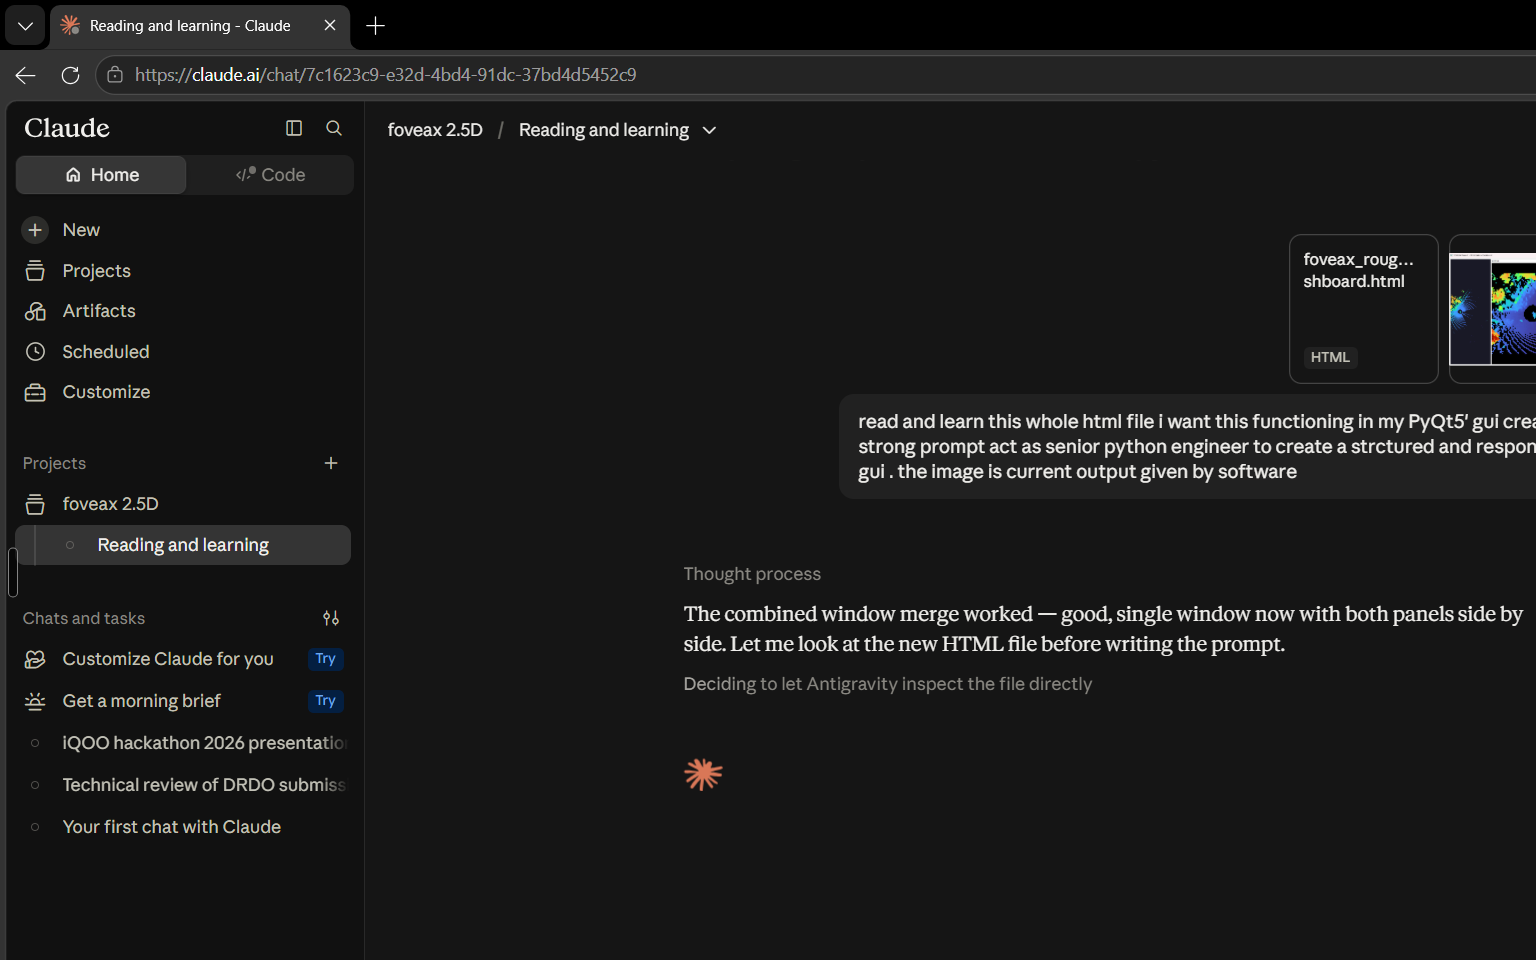
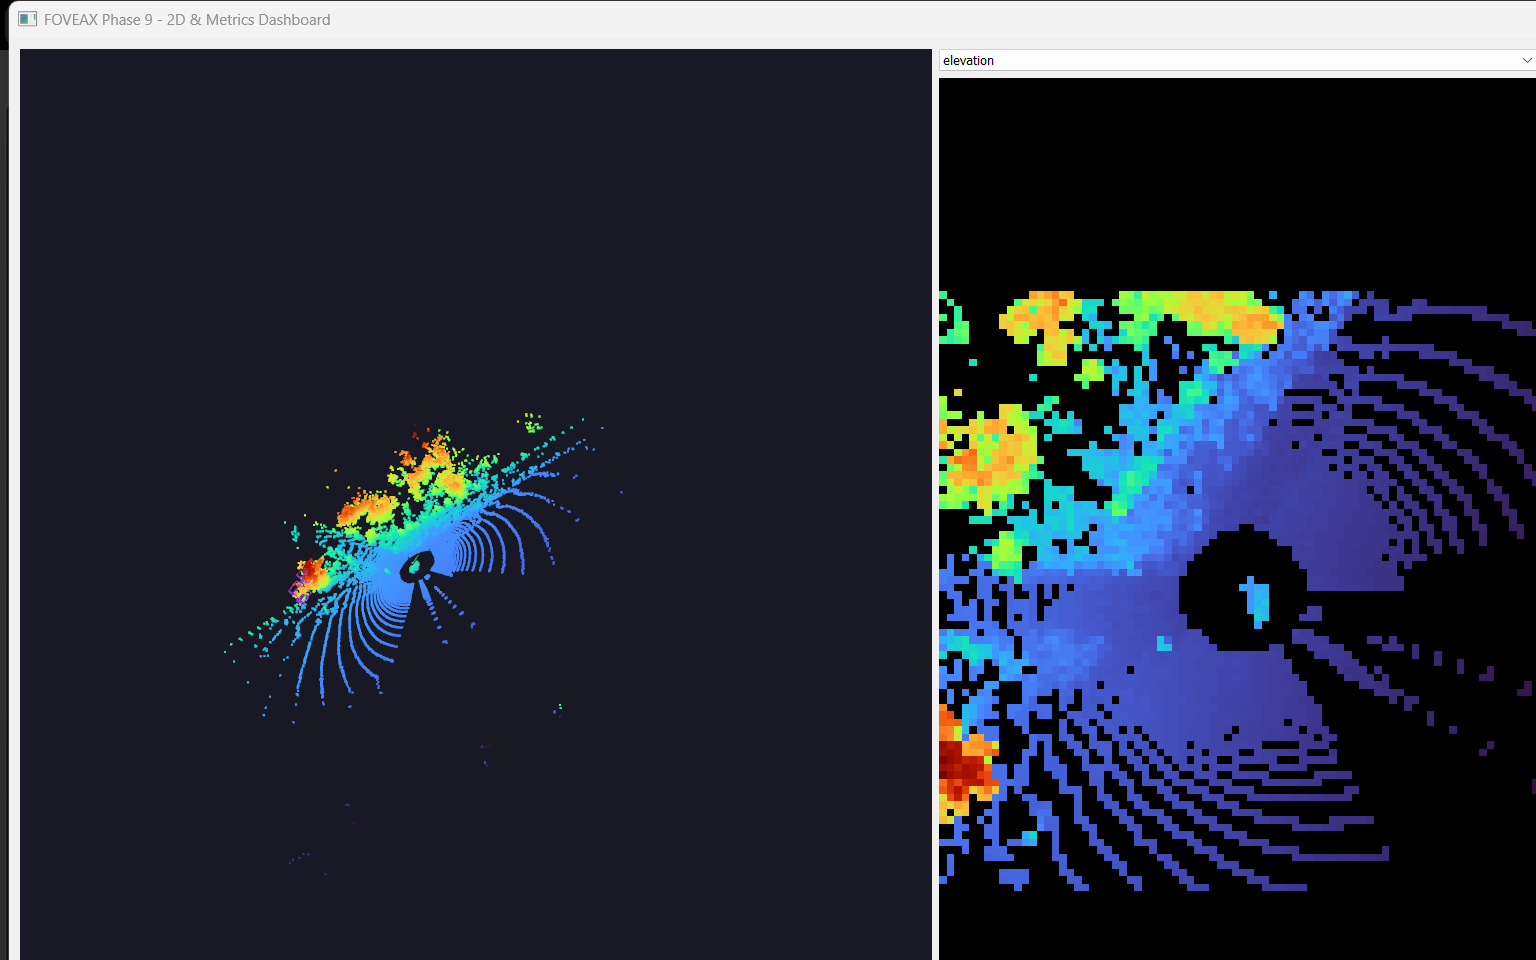
fix(dashboard): clean up debug logging and add owner_pid check in win32 embed

diff --git a/src/13_realtime_dashboard.py b/src/13_realtime_dashboard.py
@@ -175,15 +175,12 @@ class DashboardApplication:
             return
 
         try:
-            print("[DEBUG] child_hwnd received:", child_hwnd)
             embed_widget = self.qt_window.embed_widget
+            # Force real native window handles to exist before SetParent.
             self.qt_window.winId()
-            print("[DEBUG] qt_window winId ok, isVisible=", self.qt_window.isVisible())
             embed_widget.winId()
             parent_hwnd = int(embed_widget.winId())
-            print("[DEBUG] parent_hwnd=", parent_hwnd, "embed size=", embed_widget.width(), embed_widget.height())
             reparent_as_child(child_hwnd, parent_hwnd, embed_widget.width(), embed_widget.height())
-            print("[DEBUG] reparent_as_child returned OK, isVisible=", self.qt_window.isVisible())
             embed_widget.child_hwnd = child_hwnd
             self._embedded = True
             print("[INFO] Open3D 3D view embedded into the main dashboard window.")
@@ -192,22 +189,13 @@ class DashboardApplication:
                   "it will remain a separate floating window instead.")
 
     def run(self):
-        print("[DEBUG] before show()")
         self.qt_window.show()
-        print("[DEBUG] after show(), isVisible=", self.qt_window.isVisible())
         if self._attempt_embed:
             self._try_reparent()
-        print("[DEBUG] after reparent attempt, isVisible=", self.qt_window.isVisible(), "quitOnLastWindowClosed=", self.app.quitOnLastWindowClosed())
-        import os
-        if not os.environ.get("FOVEAX_DEBUG_SKIP_STREAMER"):
-            self.streamer.start()
-        else:
-            print("[DEBUG] SKIPPING streamer.start() for isolation test")
-        print("[DEBUG] entering exec_()")
+        self.streamer.start()
 
         # Start event loop
         exit_code = self.app.exec_()
-        print("[DEBUG] exec_() returned with code", exit_code)
 
         # Cleanup
         self.streamer.stop()

diff --git a/src/dashboard/win32_embed.py b/src/dashboard/win32_embed.py
@@ -17,18 +17,37 @@ from __future__ import annotations
 try:
     import win32con
     import win32gui
+    import win32process
 
     WIN32_AVAILABLE = True
 except ImportError:
     WIN32_AVAILABLE = False
 
 
-def find_window_by_title(title: str) -> int | None:
-    """Find a top-level window's HWND by exact title match, or None."""
+def find_window_by_title(title: str, owner_pid: int | None = None) -> int | None:
+    """Find a top-level window's HWND by exact title match, or None.
+
+    FindWindow searches ALL top-level windows system-wide, not just this
+    process's own -- if another process (e.g. a second, concurrently
+    running instance of this same dashboard) happens to have a window
+    with the identical title open at the same time, a bare title search
+    can match the wrong window. When owner_pid is given, the match is
+    rejected unless the found window actually belongs to that process
+    (verified via GetWindowThreadProcessId), and the search keeps looking
+    -- this was a real, observed failure mode during development (two
+    concurrent sessions each running their own Open3D window titled
+    "FOVEAX Phase 9 - 3D Dashboard").
+    """
     if not WIN32_AVAILABLE:
         return None
     hwnd = win32gui.FindWindow(None, title)
-    return hwnd if hwnd else None
+    if not hwnd:
+        return None
+    if owner_pid is not None:
+        _, found_pid = win32process.GetWindowThreadProcessId(hwnd)
+        if found_pid != owner_pid:
+            return None
+    return hwnd
 
 
 def reparent_as_child(child_hwnd: int, parent_hwnd: int, width: int, height: int) -> None:

diff --git a/src/dashboard/open3d_viewer.py b/src/dashboard/open3d_viewer.py
@@ -161,9 +161,14 @@ def run_open3d_process(queue, ready_queue=None, window_name: str = "FOVEAX Phase
         hwnd = None
         try:
             from src.dashboard.win32_embed import find_window_by_title
+            import os
             import time as _time
+            own_pid = os.getpid()
             for _ in range(50):  # up to ~5s at 0.1s/try
-                hwnd = find_window_by_title(window_name)
+                # own_pid guards against matching a same-titled Open3D
+                # window from a different, concurrently running instance
+                # of this dashboard -- FindWindow searches system-wide.
+                hwnd = find_window_by_title(window_name, owner_pid=own_pid)
                 if hwnd:
                     break
                 _time.sleep(0.1)
